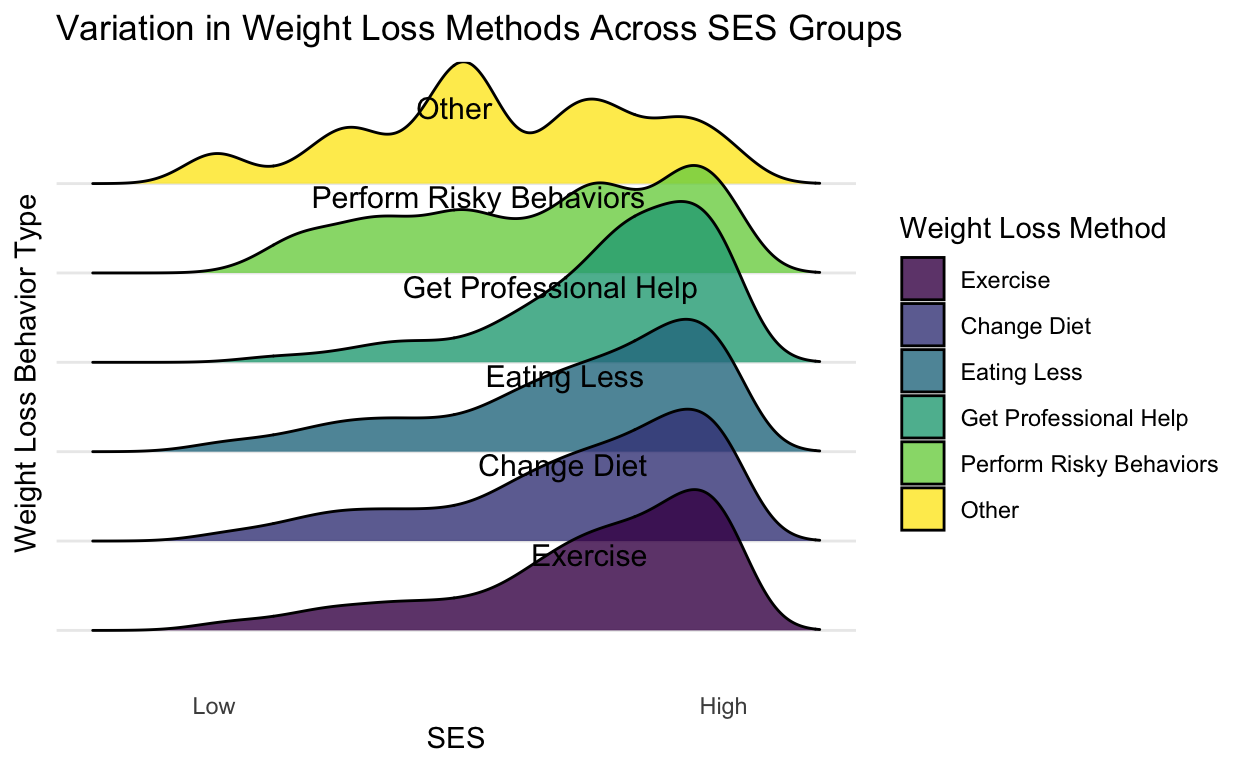
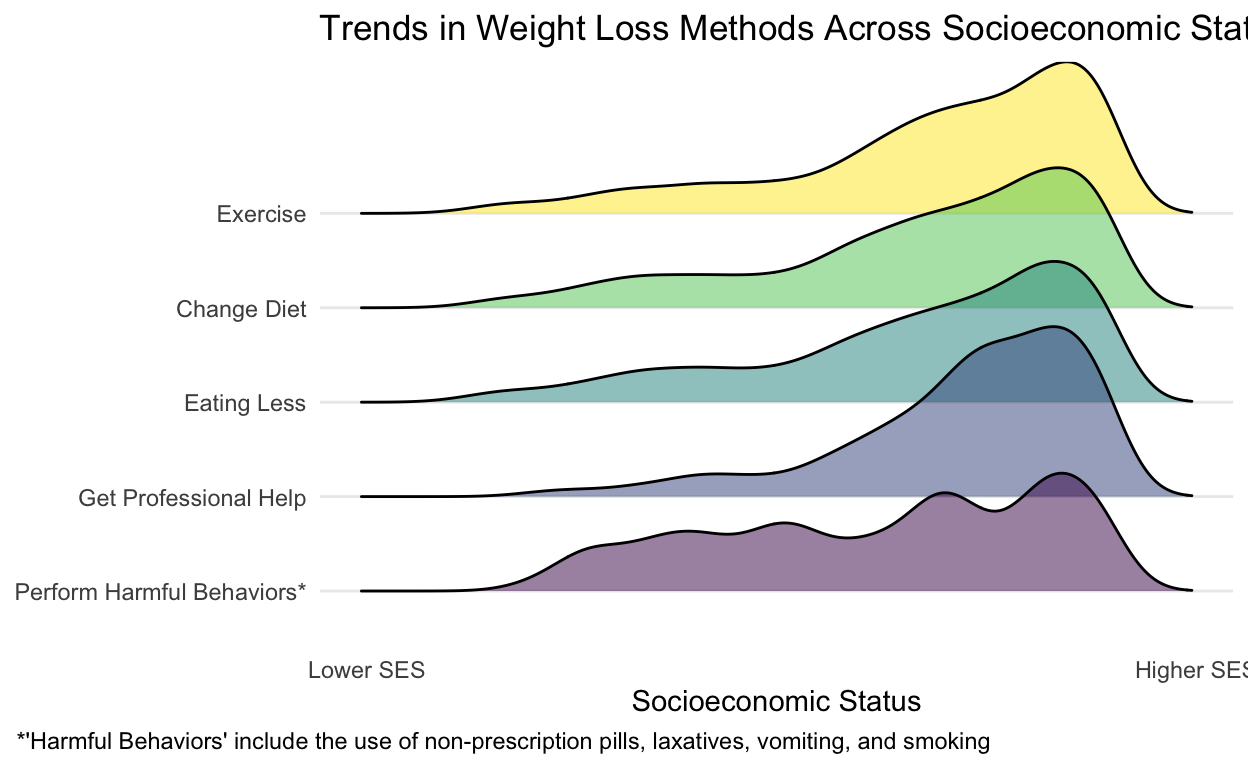
thumbnail

diff --git a/_posts/2025-03-08-ses-and-weight-loss-behavior/ses-and-weight-loss-behavior.html b/_posts/2025-03-08-ses-and-weight-loss-behavior/ses-and-weight-loss-behavior.html
@@ -113,7 +113,7 @@ code span.wa { color: #5e5e5e; font-style: italic; } /* Warning */
   <!--radix_placeholder_rmarkdown_metadata-->
 
   <script type="text/json" id="radix-rmarkdown-metadata">
-  {"type":"list","attributes":{"names":{"type":"character","attributes":{},"value":["title","description","author","date","output","image"]}},"value":[{"type":"character","attributes":{},"value":["SES and Weight Loss Behavior"]},{"type":"character","attributes":{},"value":["How is socioeconomic status (SES) associated with engagement in various weight loss behaviors?\n"]},{"type":"list","attributes":{},"value":[{"type":"list","attributes":{"names":{"type":"character","attributes":{},"value":["name"]}},"value":[{"type":"character","attributes":{},"value":["Songyi Ahn"]}]}]},{"type":"character","attributes":{},"value":["2025-03-07"]},{"type":"list","attributes":{"names":{"type":"character","attributes":{},"value":["distill::distill_article"]}},"value":[{"type":"list","attributes":{"names":{"type":"character","attributes":{},"value":["self_contained"]}},"value":[{"type":"logical","attributes":{},"value":[false]}]}]},{"type":"character","attributes":{},"value":["plot33.png"]}]}
+  {"type":"list","attributes":{"names":{"type":"character","attributes":{},"value":["title","description","author","date","output"]}},"value":[{"type":"character","attributes":{},"value":["SES and Weight Loss Behavior"]},{"type":"character","attributes":{},"value":["How is socioeconomic status (SES) associated with engagement in various weight loss behaviors?\n"]},{"type":"list","attributes":{},"value":[{"type":"list","attributes":{"names":{"type":"character","attributes":{},"value":["name"]}},"value":[{"type":"character","attributes":{},"value":["Songyi Ahn"]}]}]},{"type":"character","attributes":{},"value":["2025-03-07"]},{"type":"list","attributes":{"names":{"type":"character","attributes":{},"value":["distill::distill_article"]}},"value":[{"type":"list","attributes":{"names":{"type":"character","attributes":{},"value":["self_contained"]}},"value":[{"type":"logical","attributes":{},"value":[false]}]}]}]}
   </script>
   <!--/radix_placeholder_rmarkdown_metadata-->
   
@@ -1560,10 +1560,9 @@ code span.wa { color: #5e5e5e; font-style: italic; } /* Warning */
 </div>
 <h3 id="final-plot">Final Plot</h3>
 <div class="layout-chunk" data-layout="l-body">
-
+<p><img src="ses-and-weight-loss-behavior_files/figure-html5/unnamed-chunk-5-1.png" width="624" /></p>
 </div>
 <div>
-<p><img id="plot33" src="plot33.png" style="width: 100%; height: auto;"></p>
 <p><button onclick="showPlot('plot31')">Draft 1</button>
 <button onclick="showPlot('plot32')">Draft 2</button></p>
 </div>

diff --git a/docs/posts/2025-03-08-ses-and-weight-loss-behavior/index.html b/docs/posts/2025-03-08-ses-and-weight-loss-behavior/index.html
@@ -114,7 +114,7 @@ code span.wa { color: #5e5e5e; font-style: italic; } /* Warning */
   <!--radix_placeholder_rmarkdown_metadata-->
 
 <script type="text/json" id="radix-rmarkdown-metadata">
-{"type":"list","attributes":{"names":{"type":"character","attributes":{},"value":["title","description","author","date","output","image"]}},"value":[{"type":"character","attributes":{},"value":["SES and Weight Loss Behavior"]},{"type":"character","attributes":{},"value":["How is socioeconomic status (SES) associated with engagement in various weight loss behaviors?"]},{"type":"list","attributes":{},"value":[{"type":"list","attributes":{"names":{"type":"character","attributes":{},"value":["name"]}},"value":[{"type":"character","attributes":{},"value":["Songyi Ahn"]}]}]},{"type":"character","attributes":{},"value":["2025-03-07"]},{"type":"list","attributes":{"names":{"type":"character","attributes":{},"value":["distill::distill_article"]}},"value":[{"type":"list","attributes":{"names":{"type":"character","attributes":{},"value":["self_contained"]}},"value":[{"type":"logical","attributes":{},"value":[false]}]}]},{"type":"character","attributes":{},"value":["plot33.png"]}]}
+{"type":"list","attributes":{"names":{"type":"character","attributes":{},"value":["title","description","author","date","output"]}},"value":[{"type":"character","attributes":{},"value":["SES and Weight Loss Behavior"]},{"type":"character","attributes":{},"value":["How is socioeconomic status (SES) associated with engagement in various weight loss behaviors?"]},{"type":"list","attributes":{},"value":[{"type":"list","attributes":{"names":{"type":"character","attributes":{},"value":["name"]}},"value":[{"type":"character","attributes":{},"value":["Songyi Ahn"]}]}]},{"type":"character","attributes":{},"value":["2025-03-07"]},{"type":"list","attributes":{"names":{"type":"character","attributes":{},"value":["distill::distill_article"]}},"value":[{"type":"list","attributes":{"names":{"type":"character","attributes":{},"value":["self_contained"]}},"value":[{"type":"logical","attributes":{},"value":[false]}]}]}]}
 </script>
 <!--/radix_placeholder_rmarkdown_metadata-->
   
@@ -2490,10 +2490,9 @@ d-appendix d-footnote-list a.footnote-backlink {
 </div>
 <h3 id="final-plot">Final Plot</h3>
 <div class="layout-chunk" data-layout="l-body">
-
+<p><img src="ses-and-weight-loss-behavior_files/figure-html5/unnamed-chunk-5-1.png" width="624" /></p>
 </div>
 <div>
-<p><img id="plot33" src="plot33.png" style="width: 100%; height: auto;"></p>
 <p><button onclick="showPlot('plot31')">Draft 1</button>
 <button onclick="showPlot('plot32')">Draft 2</button></p>
 </div>

diff --git a/docs/index.html b/docs/index.html
@@ -2646,7 +2646,7 @@ function init_posts_list() {
 </div>
 </div>
 <div class="thumbnail">
-<img/>
+<img src="posts/2025-03-08-ses-and-weight-loss-behavior/ses-and-weight-loss-behavior_files/figure-html5/unnamed-chunk-5-1.png"/>
 </div>
 <div class="description">
 <h2>SES and Weight Loss Behavior</h2>
